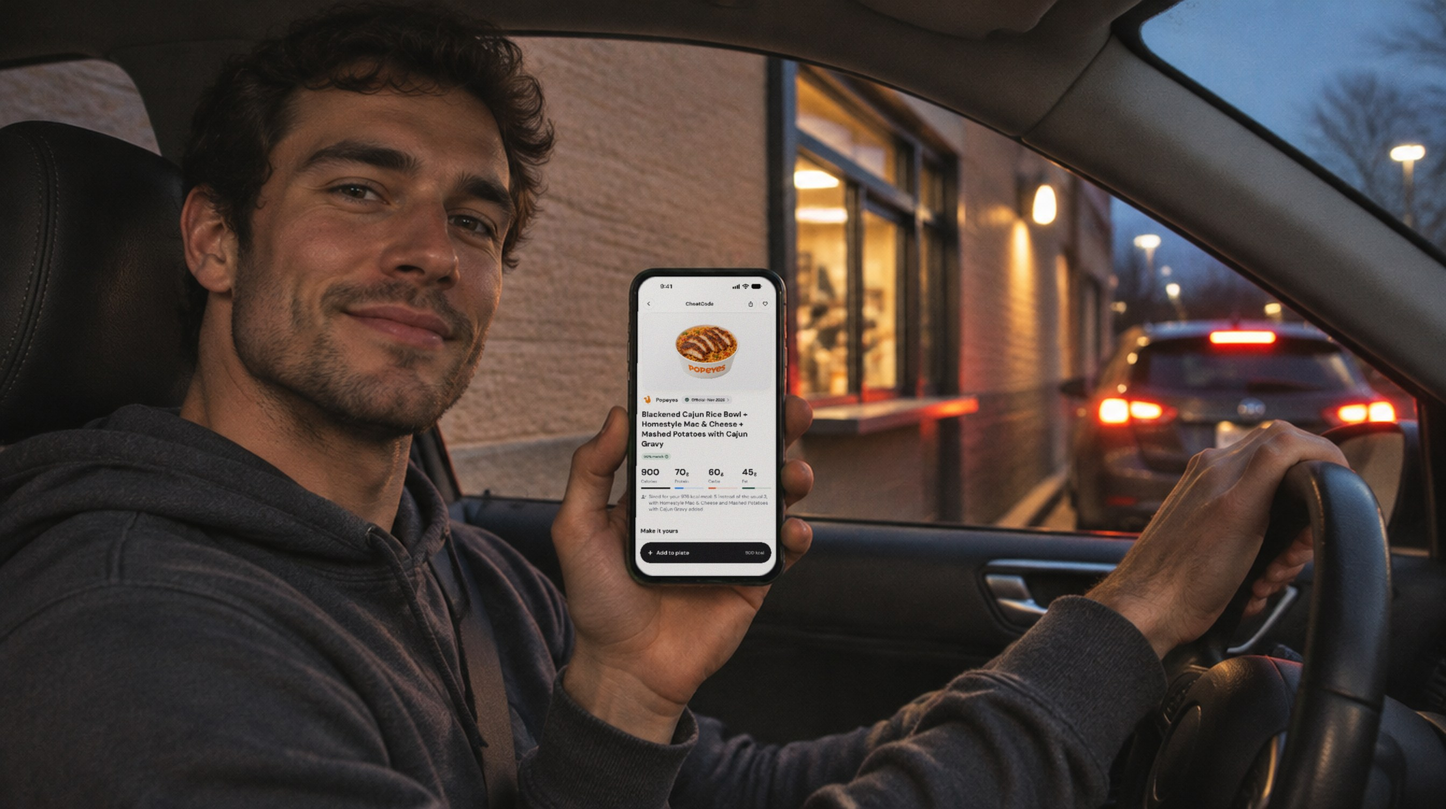
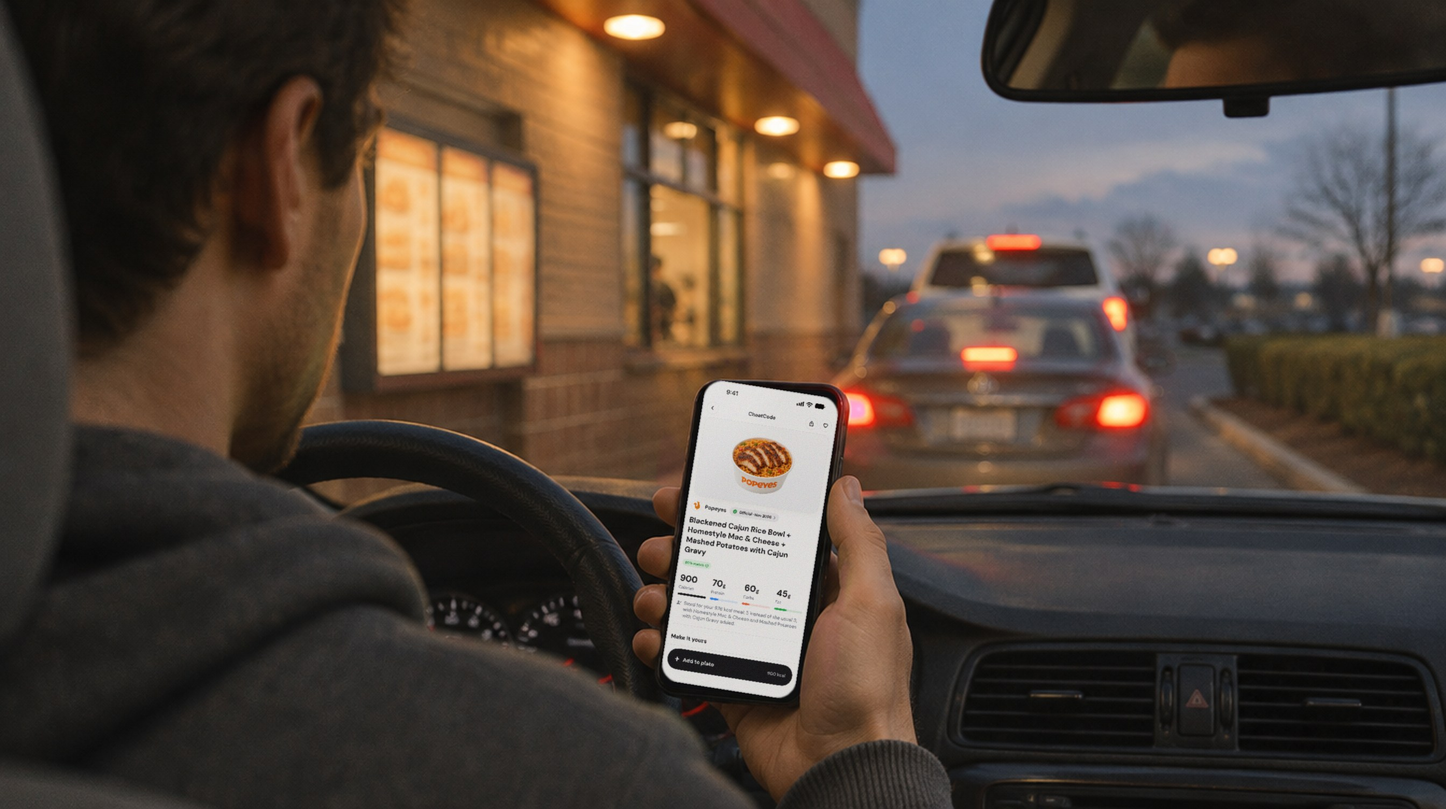
Press hero: over-the-shoulder drive-thru line

diff --git a/press/index.html b/press/index.html
@@ -21,7 +21,7 @@ header{background:#111;color:#fff;display:grid;grid-template-columns:1fr 2fr;gap
 header .meta{font-size:14px;line-height:1.6}
 header .meta button{background:none;border:0;color:#fff;font:inherit;padding:0;cursor:pointer}
 header h1{margin:0;font-weight:500;font-size:57px;line-height:1;letter-spacing:-.01em;max-width:900px}
-.hero{display:block;width:100%;aspect-ratio:12/5;object-fit:cover;object-position:50% 15%}
+.hero{display:block;width:100%;aspect-ratio:12/5;object-fit:cover;object-position:50% 52%}
 .assets{padding:32px 40px}
 .pill{display:inline-flex;align-items:center;gap:8px;background:#111;color:#fff;border-radius:999px;padding:11px 22px;font-size:14px;font-weight:500;text-decoration:none}
 .media{display:grid;grid-template-columns:2fr 1fr;gap:48px;padding:0 40px 96px;align-items:start}
@@ -85,7 +85,7 @@ footer .legal{color:#8a8a8a;align-self:flex-end}
   <h1>Introducing CheatCode: Eat Out. Hit Your Macros.</h1>
 </header>
 
-<img class="hero" src="launch/img/hero.jpg" alt="A man shows the CheatCode app on his phone in a drive-thru lane">
+<img class="hero" src="launch/img/hero.jpg" alt="A driver checks the CheatCode app while waiting in a drive-thru line">
 
 <div class="assets"><a class="pill" href="https://getcheatcode.app/press/CheatCode-Press-Kit.zip">Download all assets ↓</a></div>
 

diff --git a/press/launch/index.html b/press/launch/index.html
@@ -21,7 +21,7 @@ header{background:#111;color:#fff;display:grid;grid-template-columns:1fr 2fr;gap
 header .meta{font-size:14px;line-height:1.6}
 header .meta button{background:none;border:0;color:#fff;font:inherit;padding:0;cursor:pointer}
 header h1{margin:0;font-weight:500;font-size:57px;line-height:1;letter-spacing:-.01em;max-width:900px}
-.hero{display:block;width:100%;aspect-ratio:12/5;object-fit:cover;object-position:50% 15%}
+.hero{display:block;width:100%;aspect-ratio:12/5;object-fit:cover;object-position:50% 52%}
 .assets{padding:32px 40px}
 .pill{display:inline-flex;align-items:center;gap:8px;background:#111;color:#fff;border-radius:999px;padding:11px 22px;font-size:14px;font-weight:500;text-decoration:none}
 .media{display:grid;grid-template-columns:2fr 1fr;gap:48px;padding:0 40px 96px;align-items:start}
@@ -85,7 +85,7 @@ footer .legal{color:#8a8a8a;align-self:flex-end}
   <h1>Introducing CheatCode: Eat Out. Hit Your Macros.</h1>
 </header>
 
-<img class="hero" src="img/hero.jpg" alt="A man shows the CheatCode app on his phone in a drive-thru lane">
+<img class="hero" src="img/hero.jpg" alt="A driver checks the CheatCode app while waiting in a drive-thru line">
 
 <div class="assets"><a class="pill" href="https://getcheatcode.app/press/CheatCode-Press-Kit.zip">Download all assets ↓</a></div>
 
